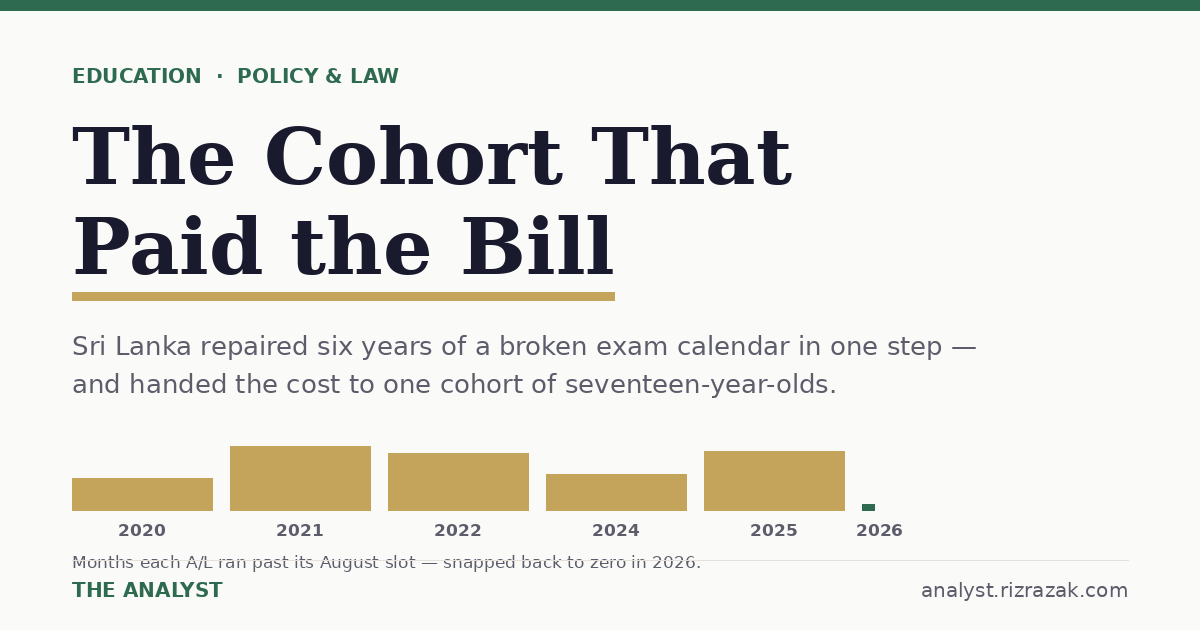
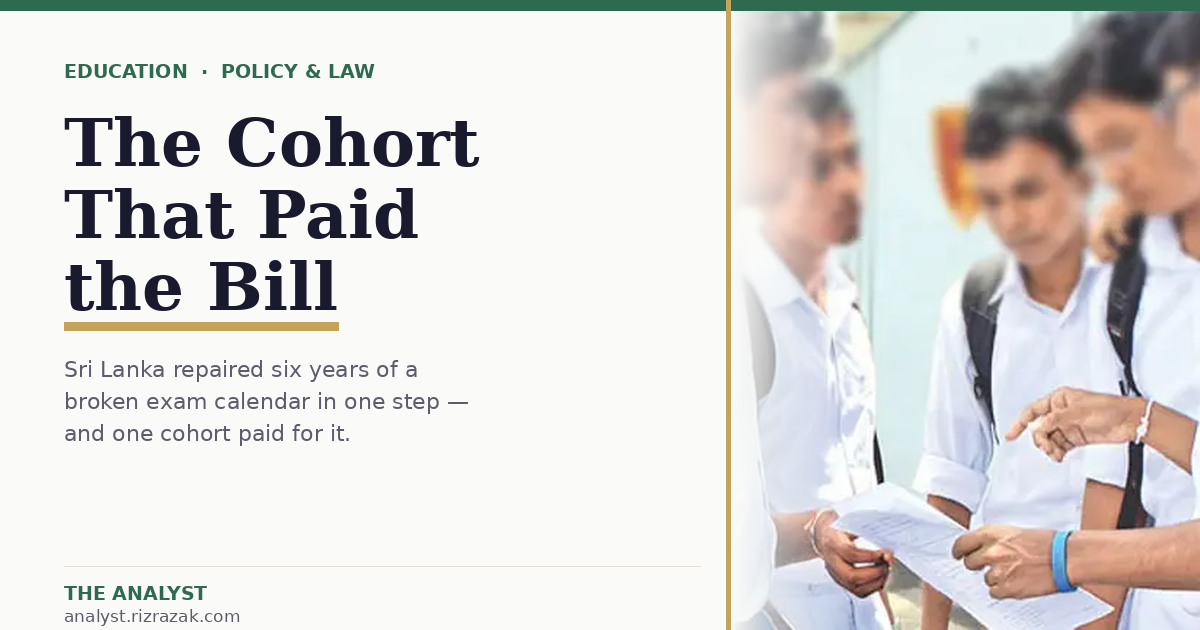
A/L: real photo in thumbnail (students + exam paper), court source corroborated

diff --git a/public/2026-al-cohort/assets/thumbnail-si.html b/public/2026-al-cohort/assets/thumbnail-si.html
@@ -1,32 +1,33 @@
 <!doctype html><meta charset="utf-8">
-<title>A/L thumbnail — Sinhala (1200×630, screenshot to PNG)</title>
+<title>A/L thumbnail — Sinhala (1200×630, screenshot .card to PNG)</title>
 <link rel="preconnect" href="https://fonts.googleapis.com">
-<link href="https://fonts.googleapis.com/css2?family=Noto+Sans+Sinhala:wght@400;600;800&family=Noto+Serif:wght@800&family=DM+Mono:wght@500&display=swap" rel="stylesheet">
+<link href="https://fonts.googleapis.com/css2?family=Noto+Sans+Sinhala:wght@400;600;800&family=DM+Mono:wght@500&display=swap" rel="stylesheet">
 <style>
-  /* Server-side Sinhala rasterisation is unavailable (no Sinhala font + no
-     network in the build env), so this thumbnail is a pixel-exact 1200×630
-     HTML card. Open in a browser and screenshot the .card to PNG, save as
-     assets/thumbnail-si.png, then point the registry thumbnailUrl at it. */
+  /* Sinhala can't be rasterised server-side (no Sinhala font in the build env),
+     so this is a pixel-exact 1200×630 card. Open in a browser, screenshot the
+     .card element, save as assets/thumbnail-si.png. Photo already sits beside it. */
   :root{ --paper:#FAFAF8; --ink:#1A1A2E; --forest:#2D6A4F; --gold:#C4A35A; --muted:#5C5C6B; --line:#E5E1DA; }
-  html,body{margin:0;background:#3a3a3a;display:grid;place-items:center;min-height:100vh}
-  .card{width:1200px;height:630px;background:var(--paper);position:relative;overflow:hidden;box-sizing:border-box;padding:0}
-  .rule{position:absolute;top:0;left:0;right:0;height:10px;background:var(--forest)}
-  .pad{padding:64px 72px 0}
-  .kicker{font:800 20px/1 'DM Mono',monospace;letter-spacing:.06em;color:var(--forest);text-transform:uppercase}
-  h1{font:800 72px/1.18 'Noto Sans Sinhala',sans-serif;color:var(--ink);margin:22px 0 0;max-width:1000px}
+  html,body{margin:0;background:#333;display:grid;place-items:center;min-height:100vh}
+  .card{width:1200px;height:630px;background:var(--paper);position:relative;overflow:hidden;display:grid;grid-template-columns:1fr 470px}
+  .card::before{content:"";position:absolute;top:0;left:0;right:0;height:10px;background:var(--forest);z-index:3}
+  .text{padding:56px 40px 40px 64px;position:relative;z-index:2}
+  .kicker{font:800 19px/1 'DM Mono',monospace;letter-spacing:.05em;color:var(--forest);text-transform:uppercase}
+  h1{font:800 60px/1.2 'Noto Sans Sinhala',sans-serif;color:var(--ink);margin:18px 0 0}
   .u{display:inline-block;border-bottom:8px solid var(--gold);padding-bottom:2px}
-  .dek{font:400 27px/1.85 'Noto Sans Sinhala',sans-serif;color:var(--muted);margin:26px 0 0;max-width:1000px}
-  .foot{position:absolute;left:72px;right:72px;bottom:44px;display:flex;justify-content:space-between;
-        align-items:center;border-top:1px solid var(--line);padding-top:16px}
-  .brand{font:800 20px/1 'DM Mono',monospace;letter-spacing:.06em;color:var(--forest);text-transform:uppercase}
-  .url{font:400 20px/1 'DM Mono',monospace;color:var(--muted)}
+  .dek{font:400 24px/1.9 'Noto Sans Sinhala',sans-serif;color:var(--muted);margin:24px 0 0}
+  .photo{position:relative}
+  .photo::before{content:"";position:absolute;left:0;top:0;bottom:0;width:4px;background:var(--gold);z-index:2}
+  .photo img{width:100%;height:100%;object-fit:cover;object-position:center}
+  .foot{position:absolute;left:64px;bottom:40px;z-index:2}
+  .brand{font:800 19px/1 'DM Mono',monospace;letter-spacing:.05em;color:var(--forest);text-transform:uppercase}
+  .url{font:400 17px/1.6 'DM Mono',monospace;color:var(--muted);display:block}
 </style>
 <div class="card">
-  <div class="rule"></div>
-  <div class="pad">
+  <div class="text">
     <div class="kicker">අධ්යාපනය · ප්රතිපත්ති සහ නීතිය</div>
     <h1>අන්තිමට A/L බිල<br><span class="u">ගෙවන්නෙ ළමයින්ද?</span></h1>
     <div class="dek">2020 සිට කැඩුණු විභාග දින දර්ශනය 2026 දී එකවර හදන්න ගිහින්, ඒකෙ පිරිවැය එක් සිසු පිරිසකට පැටවුවා.</div>
+    <div class="foot"><span class="brand">The Analyst</span><span class="url">analyst.rizrazak.com</span></div>
   </div>
-  <div class="foot"><span class="brand">The Analyst</span><span class="url">analyst.rizrazak.com</span></div>
+  <div class="photo"><img src="al-students.jpeg" alt="A/L candidates reading an exam paper"></div>
 </div>
